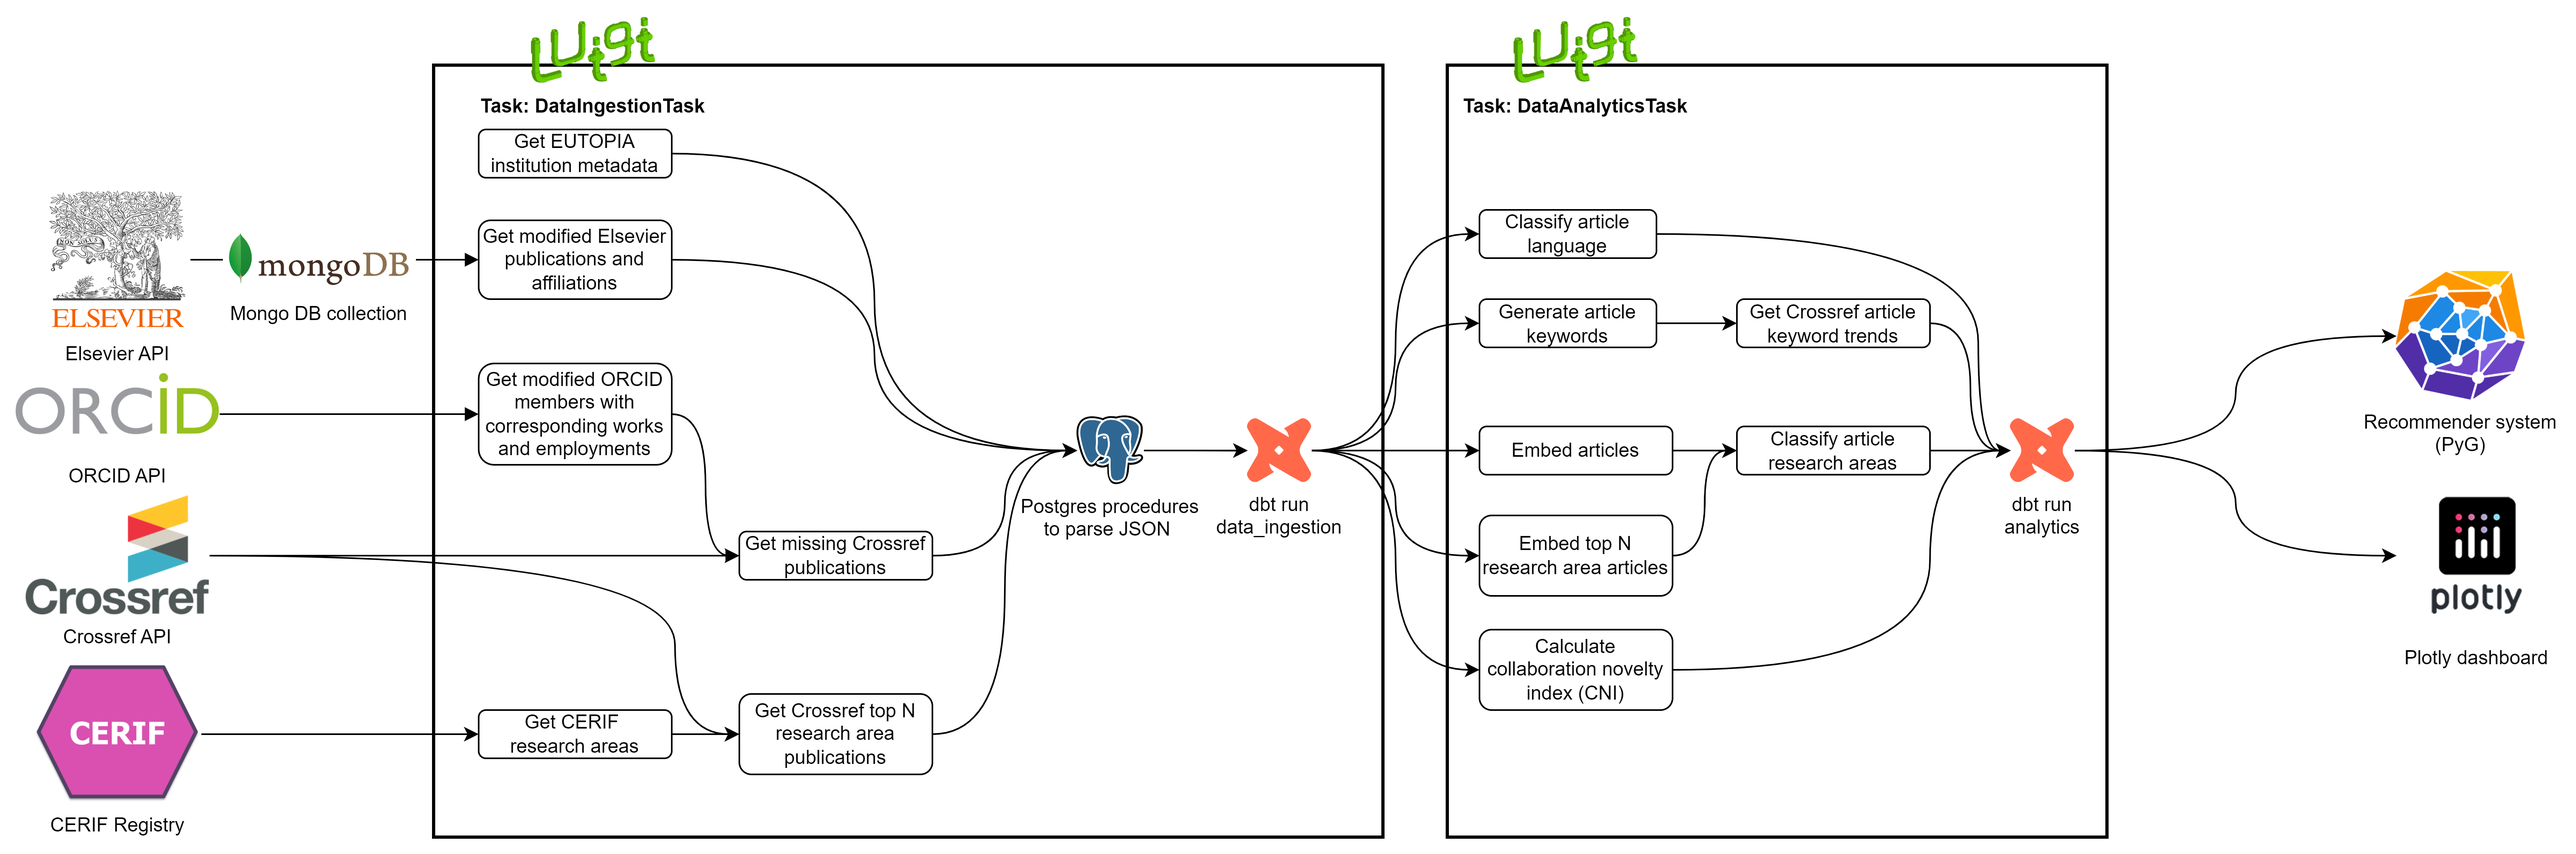
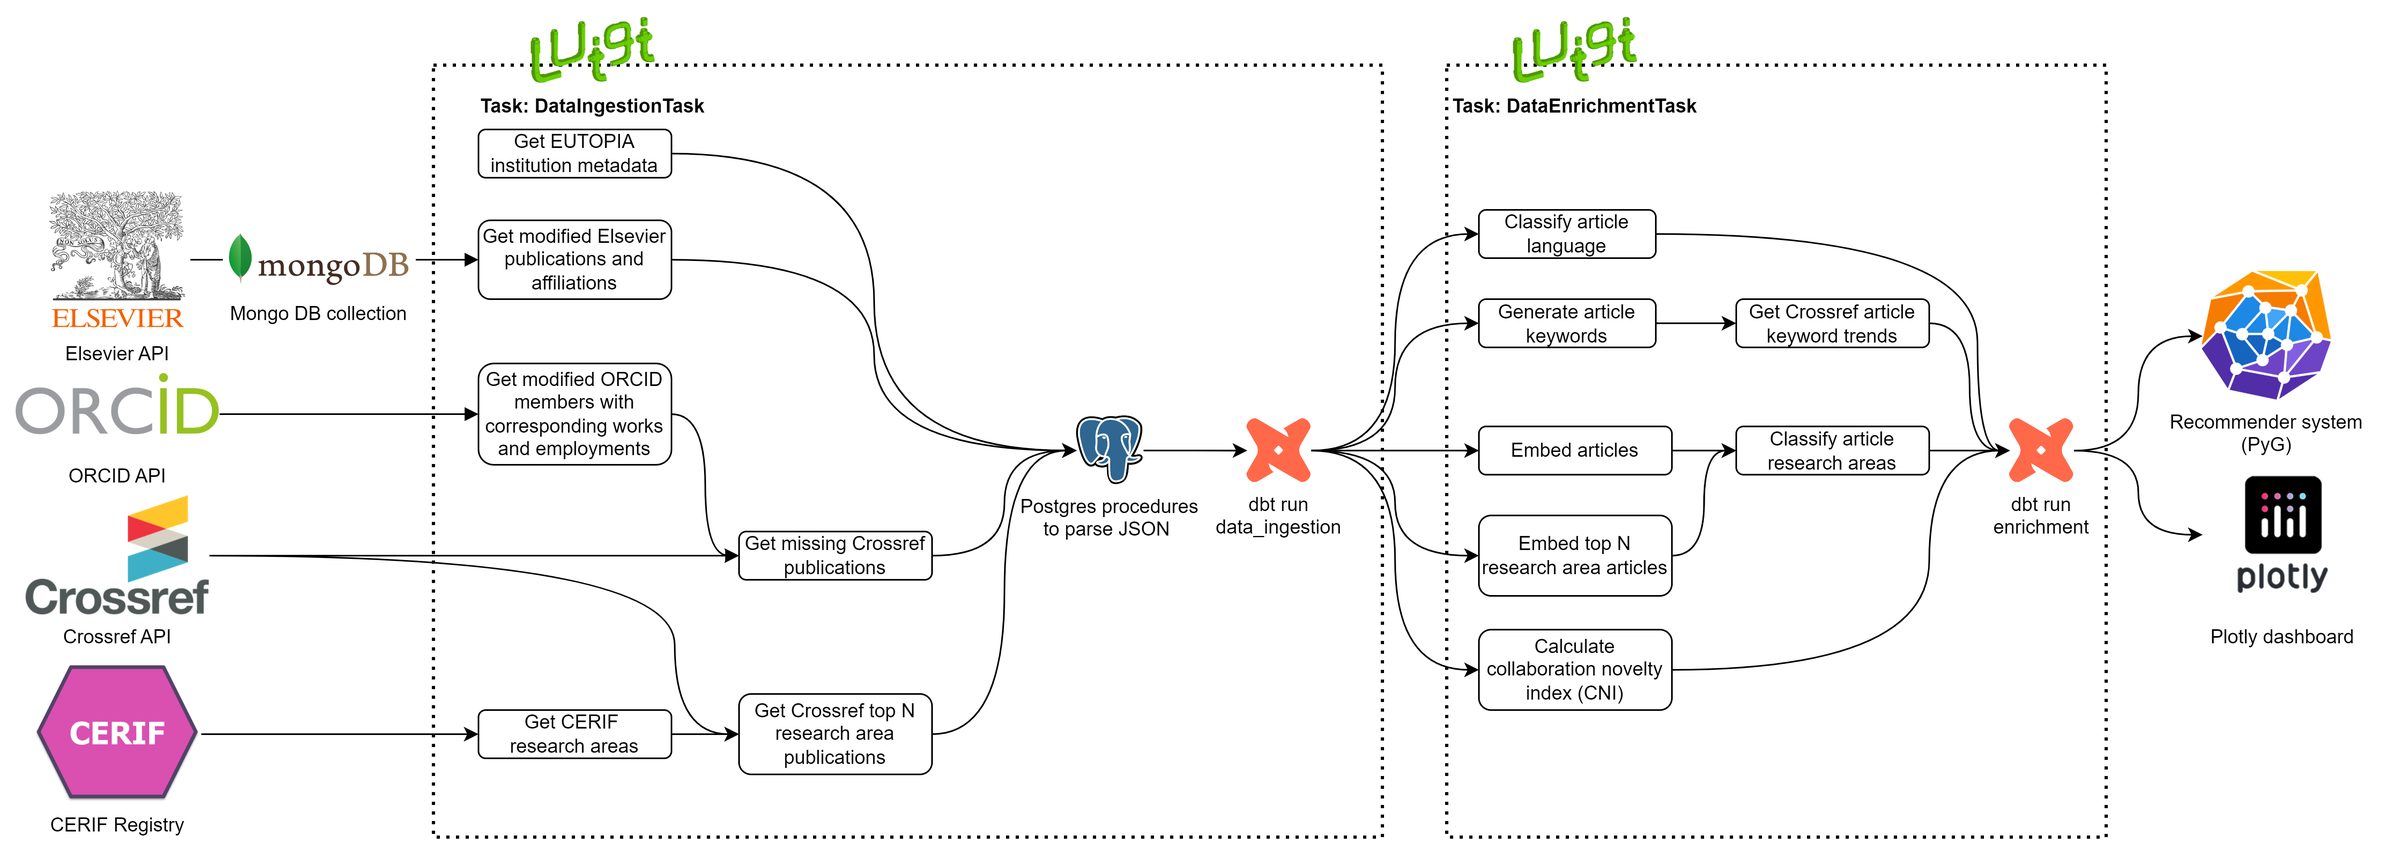
Docs (overview, CNI, topic modeling)

diff --git a/docs/1_overview.md b/docs/1_overview.md
@@ -1,0 +1,112 @@
+# Overview
+
+**Author:** [@lukazontar](https://github.com/lukazontar)
+
+To be able to develop an effective recommender system, we must ingest the data from reliable sources and transform raw
+data into a clean data warehouse. We base all our results on the data from three different data sources: Elsevier,
+Crossref and ORCID, all of which have publicly accessible REST APIs. Using open-source tools, we prepare a pipeline
+that can efficiently update and refresh all our datasets on a recurrent basis to ensure our model and analytical
+layer are always up-to-date.
+
+The system consists of three main components:
+
+1. Data sources used to gather the data.
+2. Data infrastructure for storing and processing the data.
+3. Data pipeline for ingesting and transforming the data, where we additionally separate the data ingestion and the data
+   enrichment process.
+
+A brief overview of the system is shown in the following diagram:
+
+![luigi](assets/luigi_pipeline.png)
+
+## Data infrastructure
+
+Since we are working with large volumes of data, we need to build a scalable infrastructure capable of processing the
+data within an acceptable timeframe. We developed an infrastructure using open-source tools. You can see how different
+tools are used for different data tasks in the diagram:
+
+![infrastructure](assets/infrastructure.png)
+
+Our data pipeline is orchestrated using the Luigi orchestrator, which is an open-source workflow orchestration service
+developed by Spotify. We use MongoDB as the data lake to store raw data from Elsevier and Postgres as the data lake
+and data warehouse for all other data and processed data. JSON files from data lake are first processed using stored
+procedures in Postgres. Majority of data is then processed with dbt, which is an open-source framework that helps with
+change management, data lineage and data quality within the transformation process. Articles are embedded using
+HuggingFace transformer `allenai/specter2` and stored in Postgres data warehouse. We generate keywords using a Llama
+model from the Ollama API that is running on FRI servers. Recommender system is built on PyTorch Geometric and served
+using Fast API for inference. Dash is used for the collaboration analytics dashboard.
+
+In some cases we also use Polars for data processing, which is built on Rust and is faster than Pandas.
+
+## Data sources
+
+As already mentioned, we gather our data from three different, external data sources. Starting
+with [Elsevier](https://dev.elsevier.com/) as our main source of data, we use it to gather metadata about articles,
+authors, their affiliations and most of our article content. Elsevier provides a REST API that allows us to access their
+data. It also provides most accurate data due to their extensive data cleaning process.
+
+Next, we enhance our dataset using [ORCID](https://info.orcid.org/what-is-orcid/services/public-api/), a unique
+identifier registry for researchers. ORCID allows us to access metadata for authors and their affiliations. The ORCID
+organization also provides a metadata dump of their database, which is updated yearly. Using ORCID to enhance our data
+enables two important improvements. The first is that we are able to see the research landscape more holistically, e.g.
+not all authors publish on Elsevier and hence ORCID serves as a source making our dataset more complete. Secondly, ORCID
+as well as Elsevier provides us with clear distinction between authors using their unique identifiers, which is crucial
+for our data model. If we started out with Crossref that does not provide unique identifiers for authors, we would have
+to exploit author disambiguation techniques to distinguish between authors with the same name, which is a complex and
+error-prone process.
+
+Lastly, we use [Crossref](https://www.crossref.org/documentation/retrieve-metadata/rest-api/) to further improve the
+quality of our data. Crossref allows us to access metadata for scholarly articles, specifically we are most interested
+in article citations, references and textual content such as abstracts. While Crossref might be missing a lot of
+publications, it is still a valuable source of data as it provides us with additional information about articles that we
+ingest from Elsevier and ORCID.
+
+Additionally, we use Crossref to fetch most relevant data for a given research area and to fetch trends for keywords.
+
+Besides the aforementioned data sources, we also
+use [CERIF registry](https://www.arrs.si/sl/gradivo/sifranti/sif-cerif-cercs.asp) to enable mapping of articles to a
+bounded set of research areas that are used primarily for reporting purposes to get a wider segmentation of topics.
+CERIF Registry is a registry available at aris website, where we see the Common European Research Information Format (
+CERIF) standard. It is used as a registry of research areas to which we will map articles and authors.
+
+To ingest the data from the CERIF registry, we downloaded the HTML from the website to `data/cerif.html`.
+
+## Data pipeline
+
+Our data pipeline first extracts the data from external sources, transforms it into a star schema data model and,
+finally, offloads all the data to a data warehouse. We already covered the data sources. For the sake of simplicity, we
+assume that historical data is ingested in the same manner as recurrent updates, although in reality it requires a
+slightly different approach due to the volume of the data. We also assume that weekly data update is sufficient and
+necessary to provide valuable insights.
+
+We separate the data pipeline into two main parts: data ingestion and data enrichment.
+
+Next, we ingest and update all the ORCID records
+affiliated with the ingested articles. We use dbt to parse the raw data from JSON format to structured tables and use
+those table to
+embed article contents, disambiguate redundant authors, classify languages and research areas for each article and,
+lastly, build the final model that includes intermediate metrics that will be further explained in the following
+sections of preliminary analyses. Finally, we offload all the data to BigQuery, which serves as our data warehouse.
+
+### Data ingestion task
+
+Data ingestion is responsible for the weekly update of our data lake. We first ingest all articles affiliated with
+EUTOPIA institutions indexed or modified in the past week and available in ORCID or Elsevier. For ORCID, we first fetch
+all the modified members and then fetch all the articles and employments for these members. Next, we ingest all the
+Crossref records affiliated with the ingested ORCID articles. We Postgres stored procedures to parse the raw data from
+JSON format to structured tables and dbt for some initial data transformations.
+
+### Data enrichment task
+
+In the data enrichment task, we enhance our dataset with the following improvements:
+
+- Embedding article contents using HuggingFace transformer `allenai/specter2`.
+- Generate article keywords using the `llama3.1:8b` model from the Ollama API running on FRI servers.
+- Fetch trends for the generated keywords using the Crossref API.
+- Classify languages for each article using the `langdetect` library.
+- Classify research areas for each article using cosine similarity and k-NN classification with the top research area
+  publications fetched from
+  Crossref (by relevance). Further explained in [Topic modeling](4_topic_modeling).
+- Calculate the collaboration novelty index (CNI) for each article. Further explained in [Collaboration novelty
+  index](3_collaboration_novelty_index).
+

diff --git a/docs/3_collaboration_novelty_index.md b/docs/3_collaboration_novelty_index.md
@@ -1,0 +1,132 @@
+# Collaboration novelty index (CNI)
+
+**Author:** [@lukazontar](https://github.com/lukazontar)
+
+<hr/>
+
+## Publication types
+
+First, we define the following publication types:
+
+- **Single author collaboration:** An article is considered a single author collaboration if it has only one author.
+- **Internal collaboration:** An article is considered an internal collaboration if all authors are from the same
+  institution.
+- **External collaboration:** At a given point in time $t$, we define an **external collaboration** as a group of
+  authors from at least two different institutions publishing an article together.
+- **EUTOPIA collaboration:** we define a publication a **EUTOPIA collaboration**, when authors from two or more EUTOPIA
+  institutions collaborate.
+
+<hr/>
+
+## New collaboration
+
+**New collaboration:** we define a **new collaboration** as a unique set of authors that have not yet collaborated. That
+is, a new collaboration is considered when an author collaborates with another author for the first time.
+
+### Collaboration impact
+
+Since not all collaborations are equally important, we define **collaboration novelty index** or **CNI** that captures the
+importance of a new collaboration taking into account the following factors:
+
+- it is more important if there is more new authors added,
+- it is more important if a new author is from a new institution,
+- it is more important if a new author is added to a small collaboration rather than a large one,
+- if authors and institutions have already collaborated, then it is more important if there wasn't a lot of 
+collaboration between them prior to the given publication.
+
+Let's first define some **base terms**:
+
+- $A_i$: Set of authors involved in the publication $p_i$ at time $t_1$.
+- $I_i$: Set of institutions corresponding to article $p_i$.
+- $A_{prev}$: Set of authors who have previously collaborated.
+- $I_{prev}$: Set of institutions involved in previous collaborations.
+- $C_{a,a}$: Number of prior collaborations between author pairs ($a_1$, $a_2$).
+- $C_{i_1,i_2}$: Number of prior collaborations between institution pairs ($i_1$, $i_2$).
+- $S_{old}$: Size of the old collaborations (number of old authors).
+
+
+The **Collaboration Novelty Index (CNI)** is defined as follows:
+
+- New authors impact: $N_{\text{A}} = \sum_{(a_1, a_2) \in A_i} \frac{1}{1 + C_{a_1, a_2}}$
+- New institutions impact: $N_{\text{I}} = \sum_{(i_1, i_2) \in I_i} \frac{1}{1 + C_{i_1, i_2}}$
+- Collaboration size adjustment: $S_A = \frac{1}{\sqrt{S_{\text{old}} + 1}}$
+- Collaboration Novelty Index: $\text{CNI} = N_{\text{A}} \cdot (1 + N_{\text{I}}) \cdot S_A$
+
+
+#### Example of CNI calculation
+Say we have the following situation for authors $A$, $B$, $C$, $D$, $E$, $F$ and $G$:
+
+- authors $A$, $D$ and $F$ are from institution $I_1$,
+- authors $B$ and $C$ are from institution $I_2$ and
+- author $G$ is from institution $I_3$.
+
+- Assume the following scenario:
+
+1. $t_1$: Then if authors $B$ and $C$ publish an article together, it is important because it is a collaboration of a new
+pair of authors, but it is not a new collaboration on institution level.
+  
+    $N_A = \frac{1}{1 + 0} = 1$
+
+    $N_I = 0$ (no combinations)
+
+    $S_a = \frac{1}{0 + 1}$
+  
+    $NCI = 1 * 1 * 1 = 2$
+
+2. $t_2$: However, if author 4A$ from a new institution joins authors $B$ and $C$ for the first time, then this is a new
+collaboration on an institutional level and it as such it is more important even though it has less new authors.
+
+    $N_A = \frac{1}{1 + 1} + \frac{1}{1 + 0} + \frac{1}{1 + 0} = 2.5$
+    
+    $N_I = \frac{1}{1 + 0} = 1$
+    
+    $S_a = 1 / 3 = 0.33$
+    
+    $NCI = 2.5 * 2 * 0.33 = 1.67$
+
+3. $t_3$: If at a later point in time, author $D$ joins forces with authors $B$, $C$ and $A$ , it is less important because
+it is a collaboration of authors that have already collaborated and only a new author from an already included
+institution is added. A real life example of this would be a PhD student joining the group of his/her supervisor.
+  
+    $N_A = \frac{1}{1 + 2} + \frac{1}{1 + 1} + \frac{1}{1 + 1} + \frac{1}{1 + 0} + \frac{1}{1 + 0} + \frac{1}{1 + 0} = 0.33 + 2 * 0.5 + 3 * 1 = 4.33$
+
+    $N_I = \frac{1}{1 + 1} = 0.5$
+   
+    $S_a = 1 / 4 = 0.25$
+    
+    $NCI = 1.625$
+
+4. $t_4$: At a later point, author $E$ starts collaborating with author $F$, this is a new collaboration of great importance
+because an entirely new collaboration is formed between two institutions, even though the institutions have already
+collaborated.
+
+    $N_A = \frac{1}{1 + 0} = 1$
+    
+    $N_I = \frac{1}{1 + 0} = 0.5$
+
+    $S_a = \frac{1}{1 + 0} = 1$
+
+    $NCI = 1.25$
+
+5. $t_5$: Finally, if author $G$ joins the group of authors $B$, $C$, $A$ and $D$, it is more important because we create a new
+institutional collaboration, even though the majority of authors have already collaborated.
+
+    $N_A = \frac{1}{1 + 0} = \frac{1}{1 + 3} + \frac{2}{1 + 2} + \frac{3}{1 + 1} + \frac{4}{1 + 0} = 0.25 + 0.666 + 1.5 + 4 = 6.4167$
+
+    $N_I = \frac{1}{1 + 3} + 2 * \frac{1}{1 + 0} = 2.25$
+
+    $S_a = \frac{1}{1 + 4} = 0.2$
+
+    $NCI = 1.25$
+
+![Collaboration Example.png](assets/cni.png)
+
+This case returns the following CNI values:
+
+| Collaboration | CNI  |
+|---------------|:----:|
+| $t_1$         | 1.00 |
+| $t_2$         | 1.67 |
+| $t_3$         | 1.63 |
+| $t_4$         | 1.33 |
+| $t_5$         | 4.17 |

diff --git a/docs/4_topic_modeling.md b/docs/4_topic_modeling.md
@@ -1,0 +1,18 @@
+# Topic modeling
+
+This document provides an overview of the processes involved in embedding research areas and articles, and deriving the
+most probable research areas for each article based on their embeddings. The scripts interact with the CERIF (Common
+European Research Information Format) registry, which is a standard for managing and exchanging research information in
+a structured manner. It provides a structured format for representing various research entities such as projects,
+publications, patents, and organizational units. CERIF ensures interoperability and enhances the accessibility of
+research information across different systems and institutions.
+
+We use Crossref API to fetch the top N articles by relevance querying research area from the CERIF registry. The top N
+articles are then embedded using a transformer model from HuggingFace: `allenai/specter2`. This model was chosen because
+it is specifically trained on scientific texts. The embeddings of top N articles are then combined and stored in
+Postgres. In figure below, you can see the embedding space of the articles of the research areas:
+
+![Embedding space of the articles of the research areas](assets/research_area_embedding_space.png)
+
+We classify the research areas using cosine similarity between the embeddings of articles and top N articles of research
+areas. Lastly, we apply k-NN classification to derive the most probable research areas for each article.

diff --git a/README.md b/README.md
@@ -61,7 +61,7 @@ docker-compose up
 ```
 
 The system also requires a `.env` file and `config.yaml` file to be set up. Configuration setup instructions can be
-found in: [Configuration setup](docs/Configuration%20setup.md).
+found in: [Configuration setup](docs/2_configuration_setup).
 
 After that, you can run the Luigi tasks with the following command:
 
@@ -107,7 +107,7 @@ dbt run --select tag:analytics
 
 ## In-depth documentation
 
-Check additional documentation in the `docs` directory.
+Check additional documentation in the `docs` directory starting with the [overview](docs/1_overview).
 
 ### Connecting to the production VM
 
